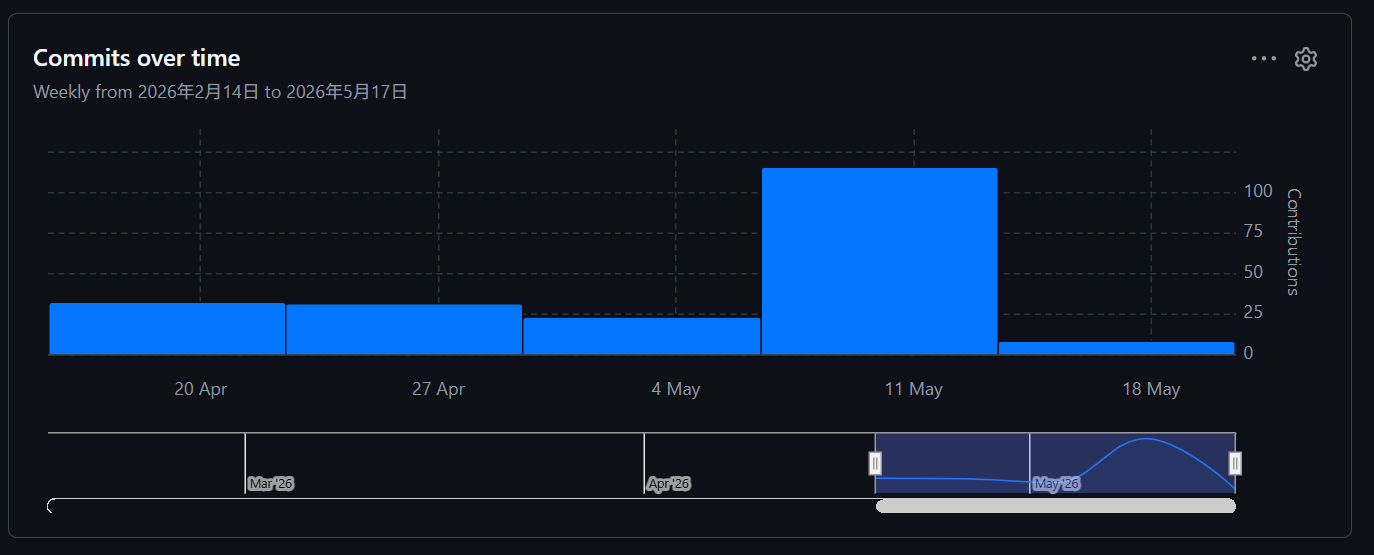
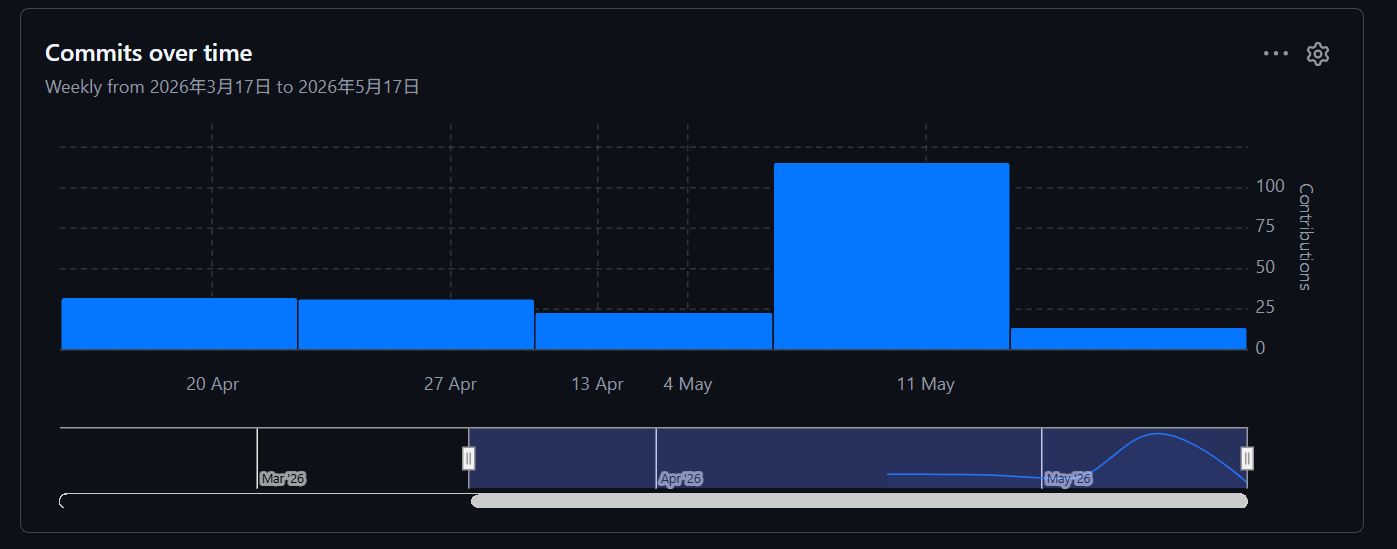
docs:添加任务分解表，完善结项报告项目总结部分

diff --git a/docs/report/中期与结项报告.md b/docs/report/中期与结项报告.md
@@ -482,21 +482,21 @@ public boolean preHandle(HttpServletRequest request, HttpServletResponse respons
 ### 3. 成员分工表
 | 姓名 | 班级 | 学号 | git账号 | 承担任务 |
 |------|------|------|---------|----------|
-| 尹媛 | 24计科二班 | 202405567126 | Sbranch76 | 项目管理、文档编写、测试全流程、Git管理 |
-| 刘敏祺 | 24计科二班 | 202405567128 | Minqi-Liu | 后端架构搭建、用户/课程表/文件上传模块开发、权限控制、异常处理 |
-| 朱宁静 | 24计科二班 | 202405567106 | LeonardJane | 学生/成绩/课程/专业模块后端开发、接口实现与联调 |
-| 崔慧敏 | 24计科二班 | 202405567131 | cuihuimin2139 | 前端页面开发、交互实现、接口联调、兼容性优化 |
-| 詹淦栩 | 24计科三班 | 202405567205 | ZXX1217 | 数据库设计、SQL脚本编写 |
+| 尹媛 | 24计科二班 | 202405567126 | Sbranch76 | 组长、项目管理、全套文档编写、测试数据构造、测试计划与执行、Git仓库管理 |
+| 刘敏祺 | 24计科二班 | 202405567128 | Minqi-Liu | 后端架构搭建、登录鉴权、权限拦截、课表管理模块、文件上传模块、全局异常处理 |
+| 朱宁静 | 24计科二班 | 202405567106 | LeonardJane | 学生管理、成绩管理、课程管理、专业管理、教师课程关联模块后端开发、接口联调 |
+| 崔慧敏 | 24计科二班 | 202405567131 | cuihuimin2139 | 前端页面开发、路由与权限控制、接口联调、表单校验、界面交互优化 |
+| 詹淦栩 | 24计科三班 | 202405567205 | ZXX1217 | 数据库E-R图设计、数据表结构设计、SQL建表脚本编写 |
 
 ### 4. Git 提交记录
-项目开发全程采用 Git 进行规范化版本管理，所有成员按分工进行增量提交，开发过程完整可追溯。
-主要提交内容如下：
-1. 项目初始化、目录结构搭建与开发环境配置；
-2. 数据库设计、SQL 脚本编写、测试数据导入；
-3. 后端架构搭建、登录认证、权限拦截、业务接口开发；
-4. 前端页面开发、路由配置、接口联调、样式与交互优化；
-5. 项目计划书、项目报告、测试文档等全套文档提交；
-6. 功能迭代、Bug 修复、代码优化与版本更新持续提交。
+项目全程采用 Git 进行规范化版本管理，按模块分目录提交，所有代码、文档、脚本、测试记录均完整留痕，累计提交 200+ 条，过程可追溯、可核查。
+主要提交内容：
+1. 项目初始化、backend/frontend 目录搭建、开发环境配置；
+2. sql/ 目录：数据库设计、建表脚本、测试数据构造与提交；
+3. backend/ 目录：后端架构、登录认证、权限拦截、业务接口开发；
+4. frontend/ 目录：前端页面、路由、接口联调、样式与交互优化；
+5. docs/ 目录：需求文档、设计文档、测试文档、项目报告分期提交；
+6. 功能迭代、Bug 修复、代码优化、界面完善持续增量更新。
 
 ![Git 提交记录截图](./assets/git_log1.png)
 ![Git 提交记录截图](./assets/git_log2.png)

diff --git a/docs/design/任务分解表.md b/docs/design/任务分解表.md
@@ -1,0 +1,78 @@
+# 任务分解表
+## 项目名称：学生成绩管理系统
+## 小组序号：04
+
+## 一、任务总览
+1. 需求分析与文档编写
+2. 数据库设计
+3. 后端接口开发
+4. 前端页面开发
+5. 系统测试与BUG修复
+6. 项目报告与总结
+
+## 二、详细任务分配
+### 1. 文档类任务
+- 项目计划书：尹媛
+- 需求分析文档：尹媛
+- 系统设计文档：尹媛、詹淦栩
+- 测试计划/用例/结果：尹媛
+- 用户手册：尹媛
+- 中期与结项报告：尹媛
+
+### 2. 数据库任务
+- E-R 图设计：詹淦栩
+- 数据表结构设计：詹淦栩
+- SQL 初始化脚本编写：詹淦栩
+- 测试数据构造与导入：詹淦栩
+- 数据表关系说明文档：詹淦栩
+
+### 3. 后端开发任务
+#### 刘敏祺（后端核心开发）
+- Spring Boot 项目架构整体搭建
+- 统一返回封装、分页工具、通用工具类开发
+- 登录接口、身份认证、JWT 令牌生成与校验
+- 权限拦截器、路由拦截、接口鉴权开发
+- 全局异常处理、跨域配置、过滤器配置
+- 课表管理模块（增删改查、排课、周课表）
+- 文件上传模块（头像/文件上传、存储、URL生成）
+- 用户基础模块（学生/教师/管理员公共逻辑）
+
+#### 朱宁静（后端业务开发）
+- 学生信息管理模块（增删改查、条件查询）
+- 课程信息管理模块（课程、课程详情）
+- 成绩管理模块（成绩录入、修改、查询、统计）
+- 专业信息管理模块（专业增删改查、数据关联）
+- 教师-课程关联模块、学生-课程关联模块
+- 分页查询、条件筛选、多表关联查询开发
+- 所有业务模块的 Mapper/Service/Controller 实现
+- 接口注释完善、DTO 实体封装、数据校验
+
+### 4. 前端开发任务
+- 页面结构与布局开发：崔慧敏
+- 登录页、首页、各功能页面实现：崔慧敏
+- 路由配置、路由守卫、权限控制：崔慧敏
+- Axios 接口封装、前后端联调：崔慧敏
+- 表单校验、非空校验、分数范围校验：崔慧敏
+- 页面交互、样式优化、浏览器兼容：崔慧敏
+
+### 5. 测试任务
+- 测试计划与方案编写：尹媛
+- 测试用例设计与覆盖：尹媛
+- 功能测试、流程测试、界面测试：尹媛
+- Postman 接口自动化测试：尹媛
+- 权限测试、越权访问测试：尹媛
+- BUG 记录、缺陷跟踪、修复验证：尹媛
+
+## 三、开发阶段
+1. 需求与设计阶段
+2. 后端接口开发阶段
+3. 前端页面开发阶段
+4. 联调与测试阶段
+5. 文档整理与结项阶段
+
+## 四、Git 提交规范
+- 格式：模块: 完成内容
+- 示例：backend: 完成登录接口
+- 示例：docs: 更新需求分析文档
+- 示例：frontend: 完成成绩管理页面
+- 示例：test: 新增测试用例
